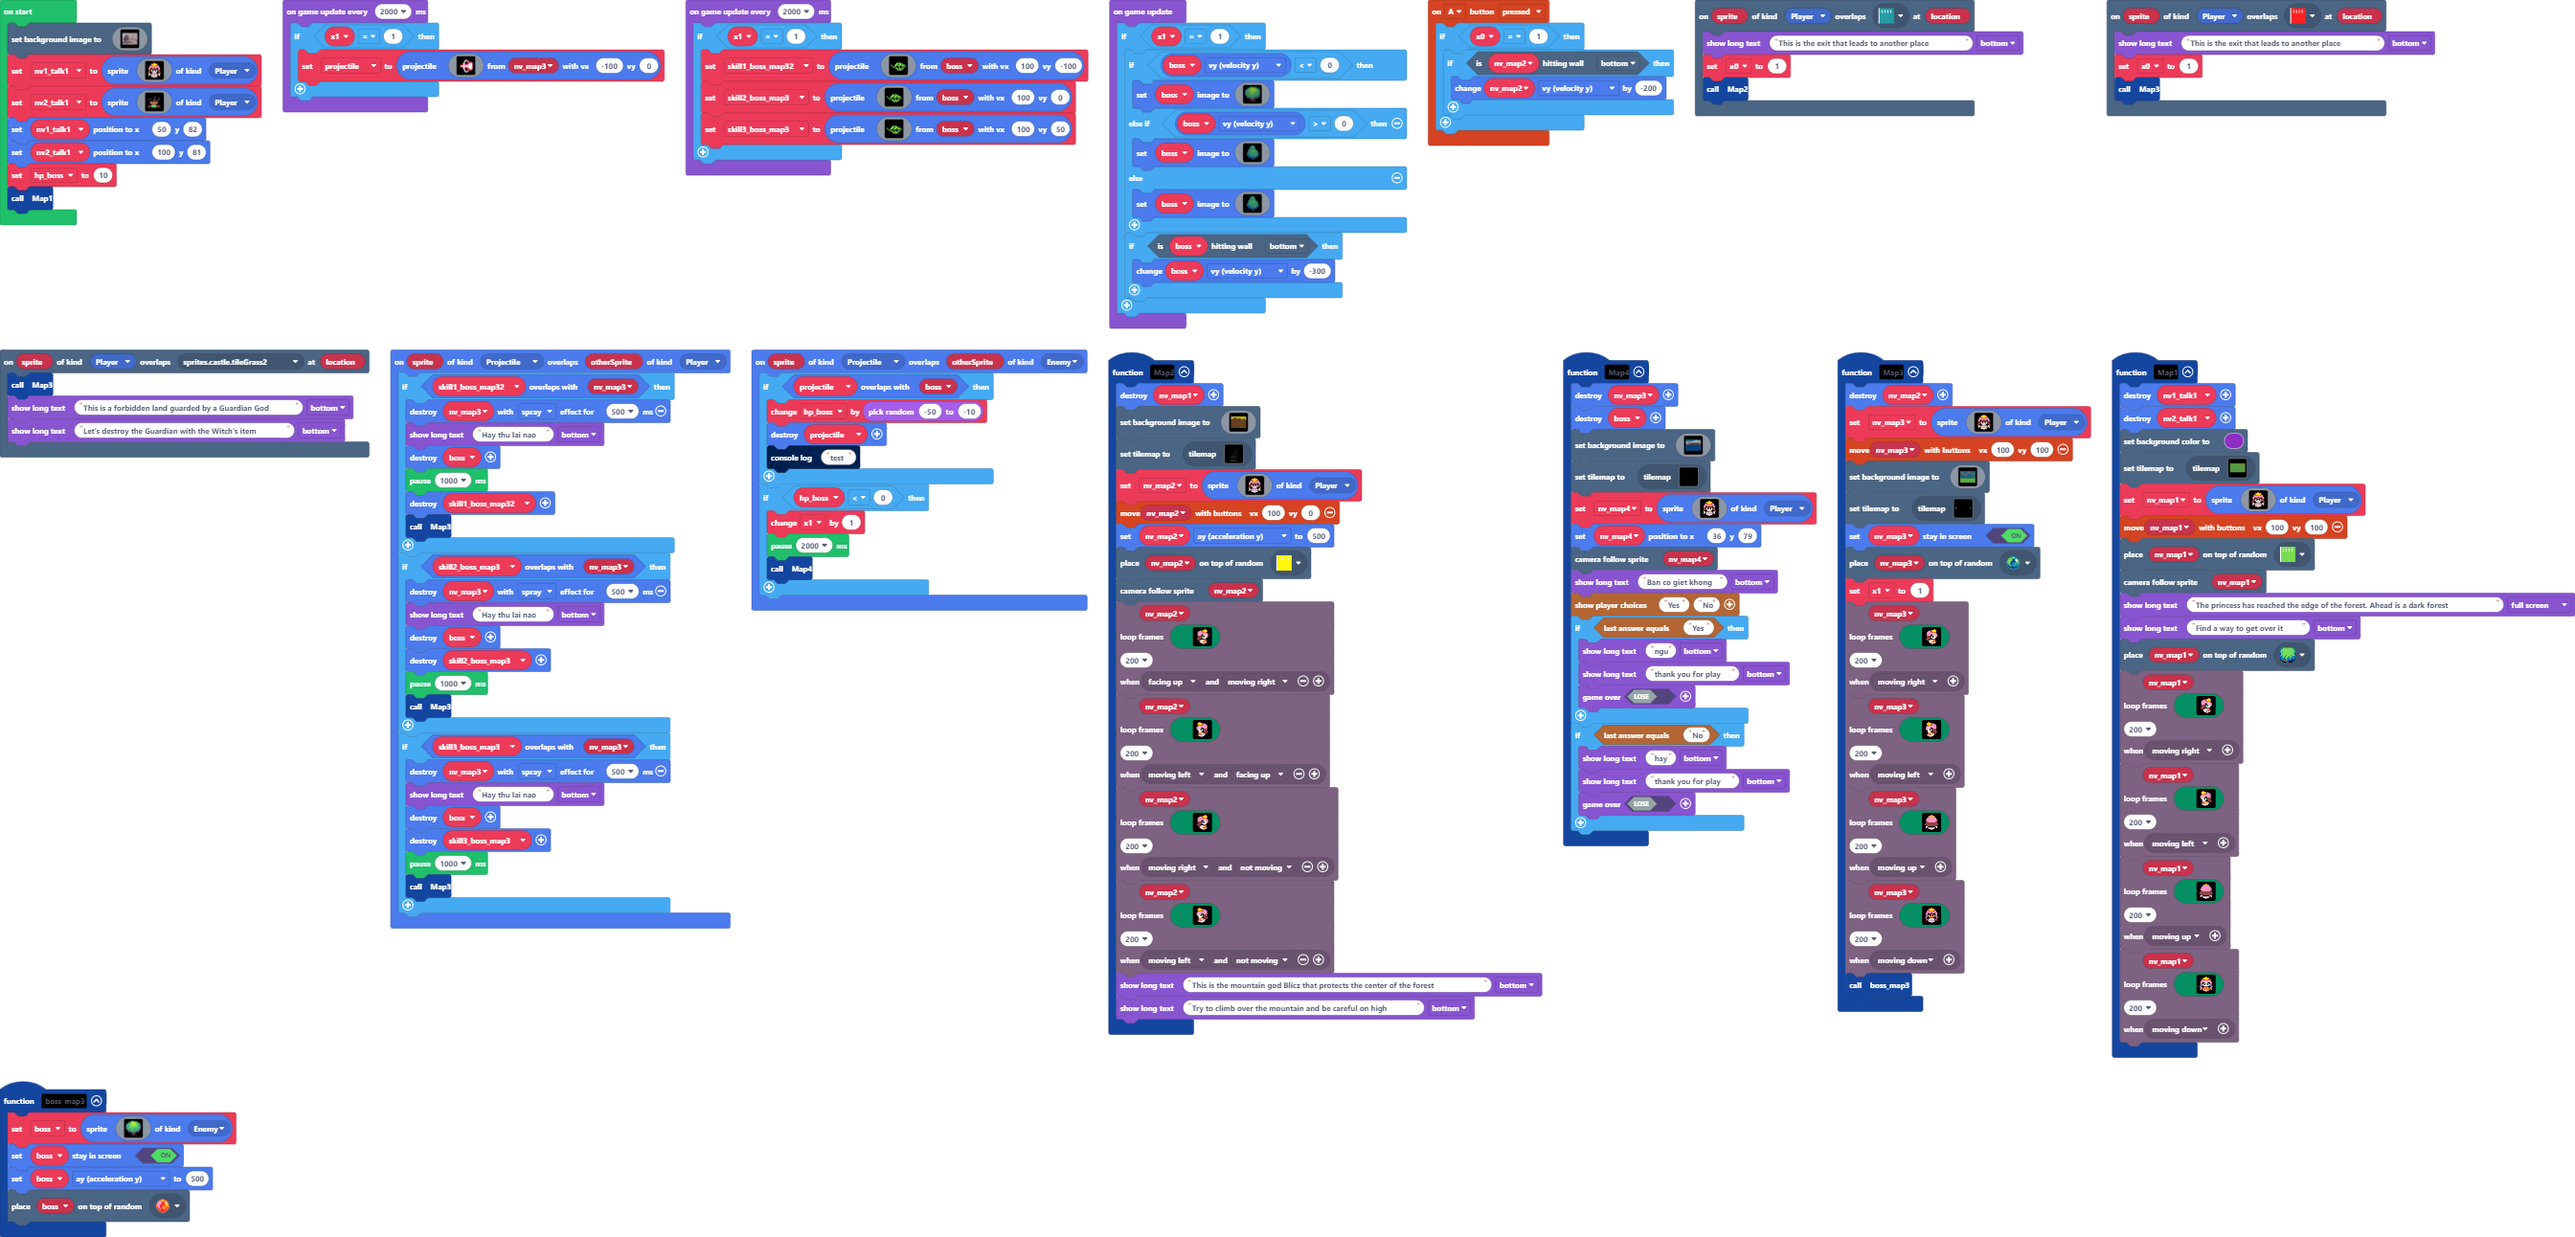
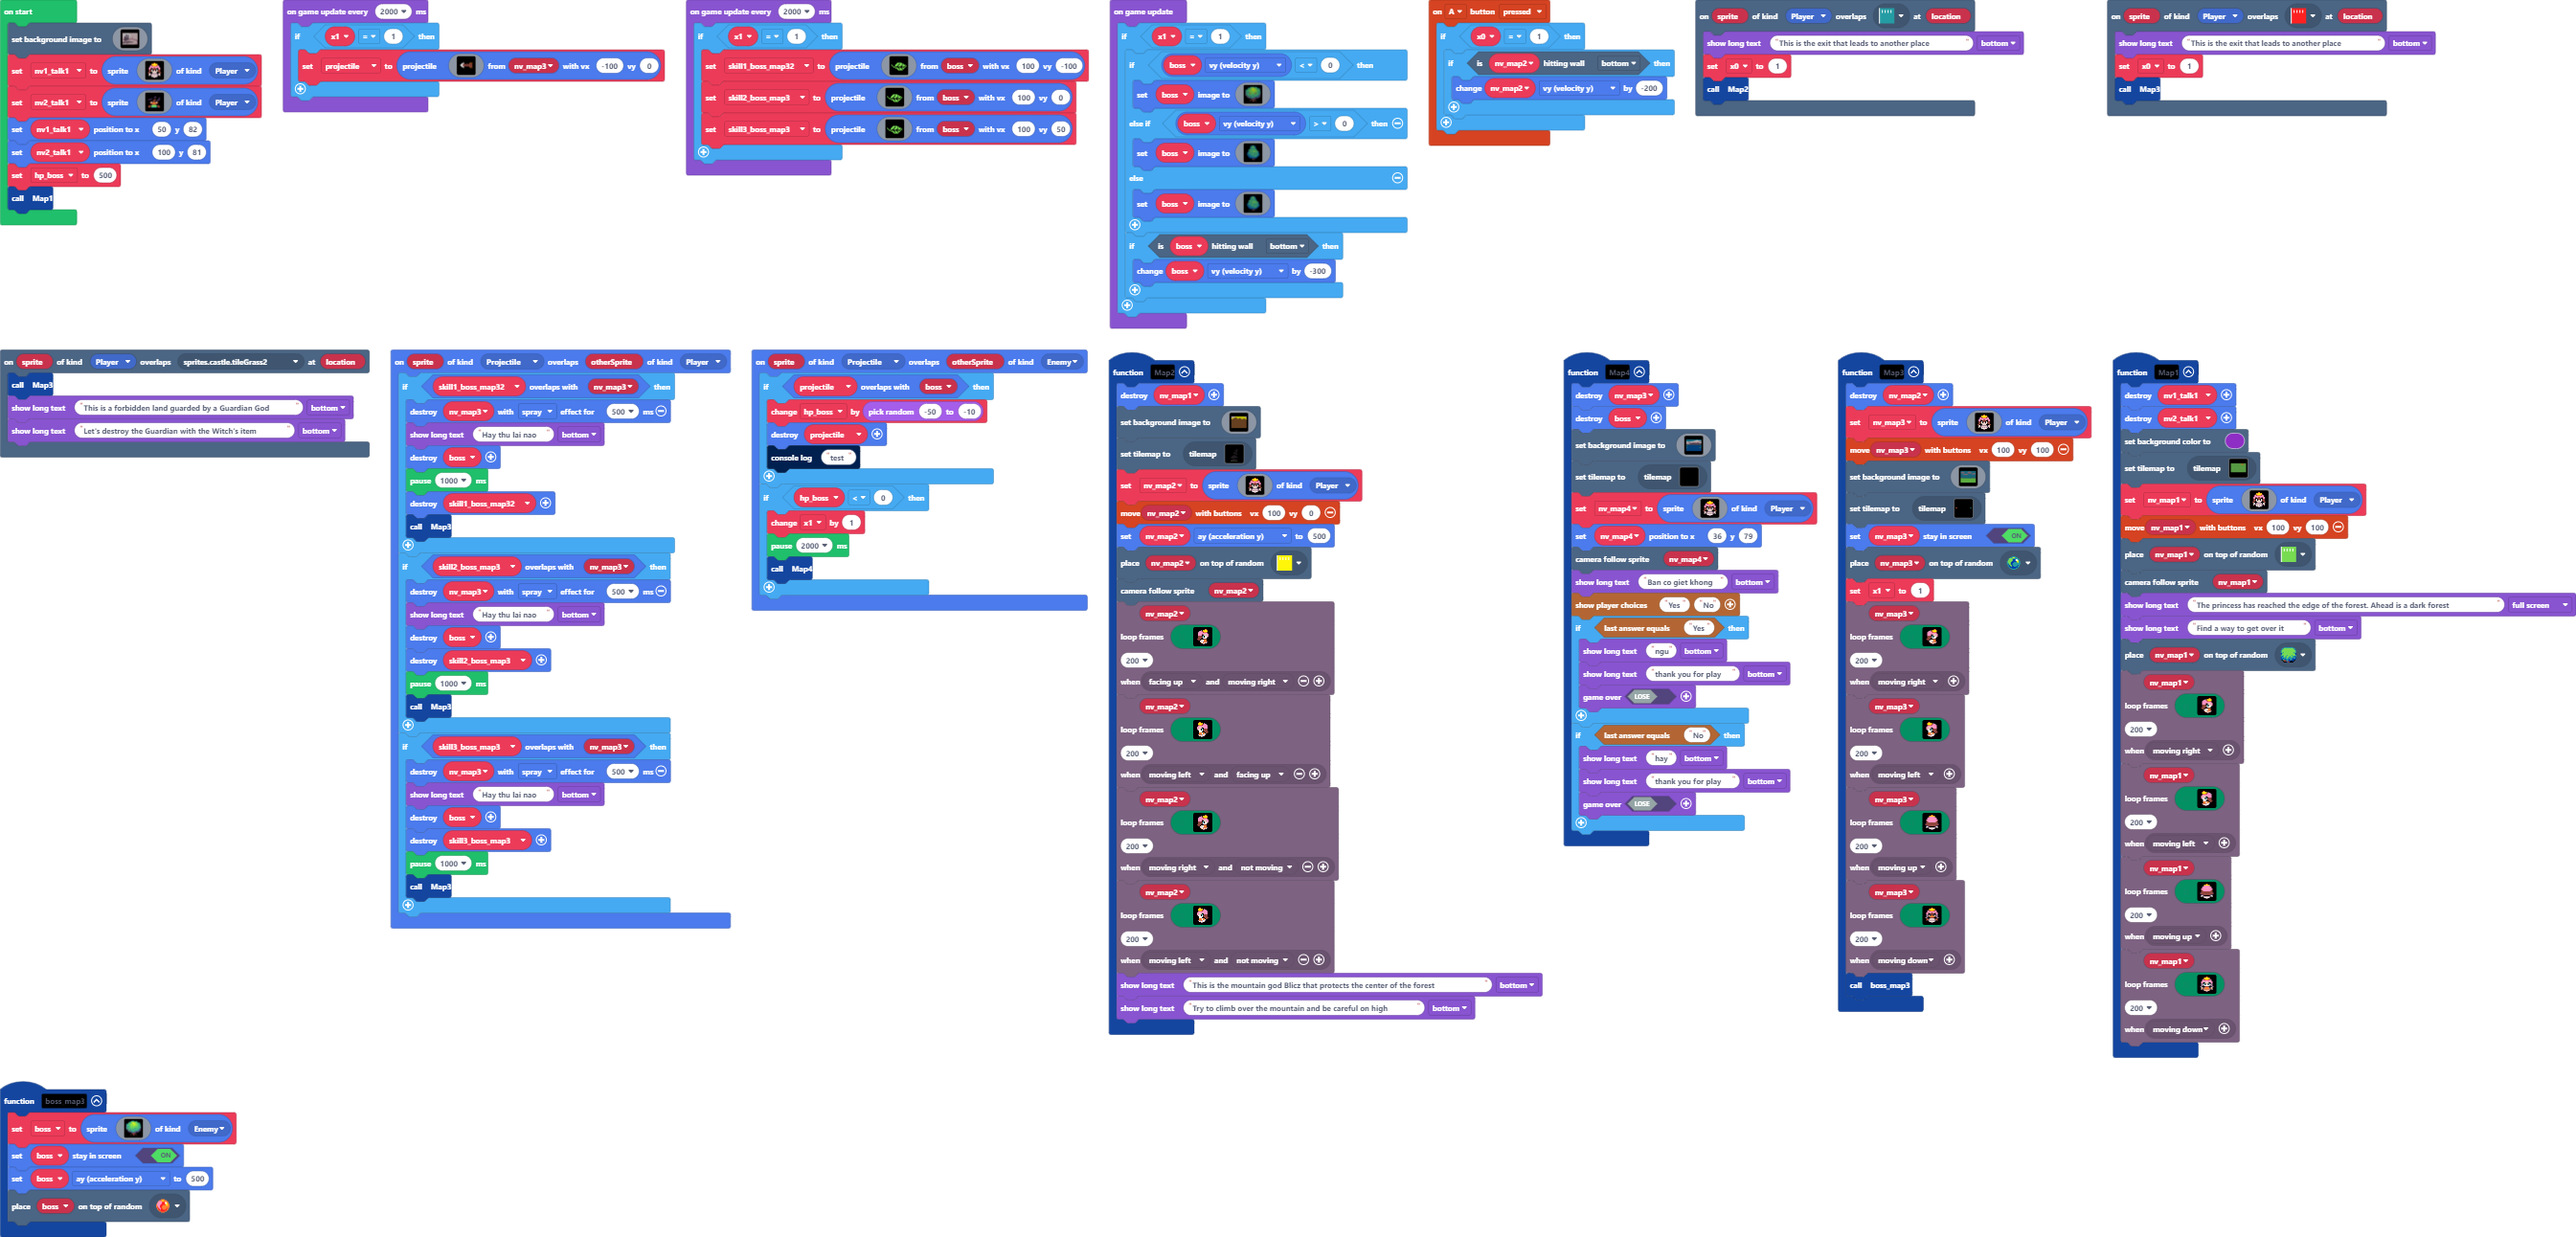
Make game game map 3

Changed region(s): [[0.7497, 0.3406, 0.8122, 0.3715]]

diff --git a/main.ts b/main.ts
@@ -1257,7 +1257,7 @@ nv2_talk1 = sprites.create(img`
     `, SpriteKind.Player)
 nv1_talk1.setPosition(50, 82)
 nv2_talk1.setPosition(100, 81)
-hp_boss = 10
+hp_boss = 500
 Map1()
 game.onUpdate(function () {
     if (x1 == 1) {
@@ -1429,22 +1429,15 @@ game.onUpdate(function () {
 game.onUpdateInterval(2000, function () {
     if (x1 == 1) {
         projectile = sprites.createProjectileFromSprite(img`
-            . . . . . . . . . . . . . . . . 
-            . . . . . . . . . . . . . . . . 
-            . . . . . . . 1 1 3 . . . . . . 
-            . . . . . . 1 3 . 3 3 . . . . . 
-            . . . . . . 1 . . . 3 2 2 3 . . 
-            . . . . . 1 3 . . . 2 2 1 3 3 . 
-            . . . . . 1 3 . 2 2 3 1 1 1 3 . 
-            . . 2 2 2 1 3 3 3 3 3 1 1 1 3 . 
-            . . 1 1 1 1 3 1 1 1 1 1 1 1 3 . 
-            . . 2 2 2 1 3 3 3 3 3 1 1 1 3 . 
-            . . . . . 1 3 . 2 2 3 1 1 1 3 . 
-            . . . . . 1 3 . . . 2 2 1 3 3 . 
-            . . . . . . 1 . . . 3 2 2 3 . . 
-            . . . . . . 1 3 . 3 3 . . . . . 
-            . . . . . . . 1 1 3 . . . . . . 
-            . . . . . . . . . . . . . . . . 
+            . . . . . . . . . . . . . . . . . . . . 
+            . . . . . . 1 . . . . . . . . 4 . 4 . . 
+            . . . . 1 1 1 . . . . . . . 4 . 4 . . . 
+            . . . 1 1 1 e e e e e e e e e e e e f . 
+            . . 1 1 1 e e e e e e e e e e e e e . . 
+            . . . 1 1 1 e e e e e e e e e e e e f . 
+            . . . . 1 1 1 . . . . . . . 4 . 4 . . . 
+            . . . . . . 1 . . . . . . . . 4 . 4 . . 
+            . . . . . . . . . . . . . . . . . . . . 
             `, nv_map3, -100, 0)
     }
 })
